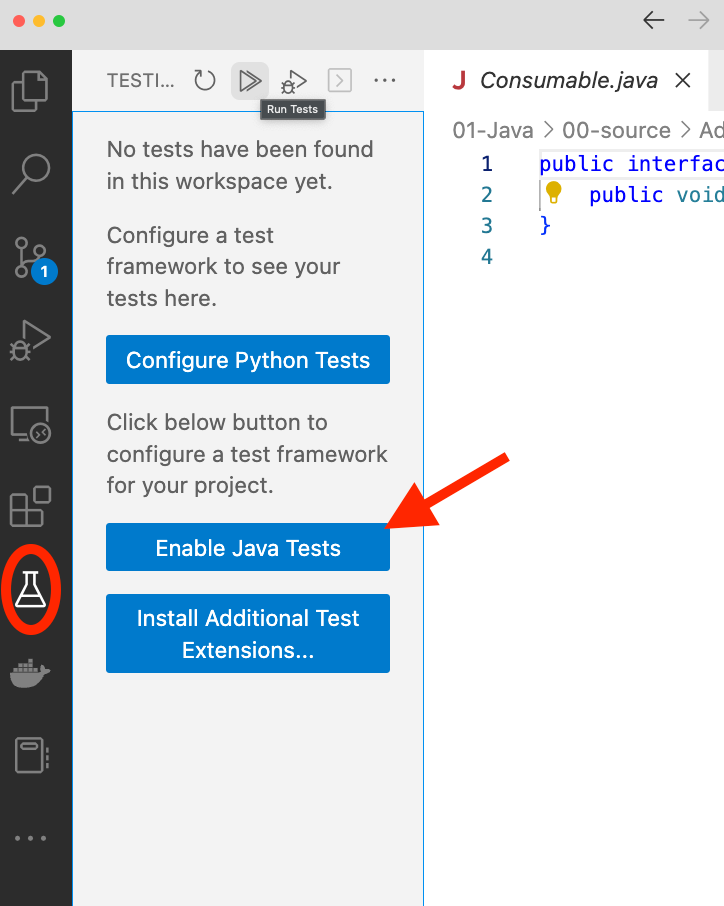
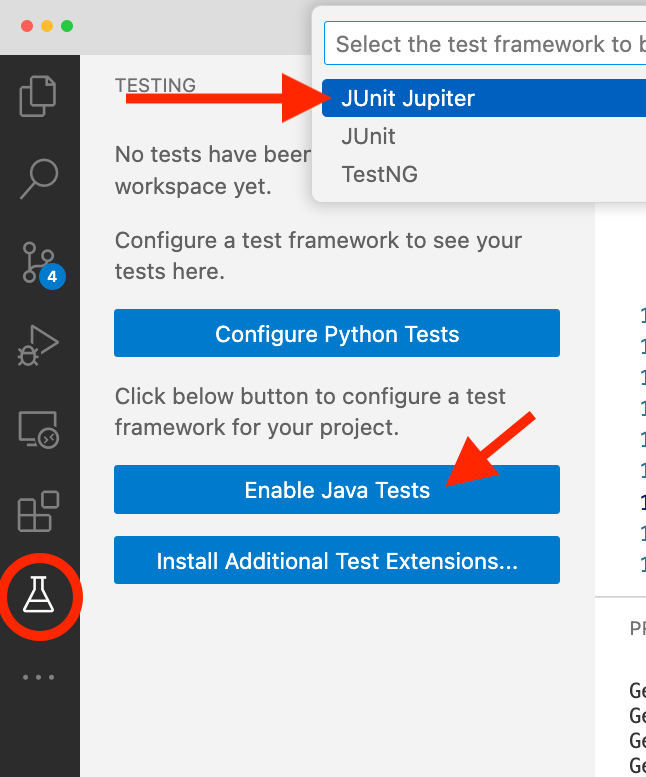
Update Testing Instructions

diff --git a/project-01.md b/project-01.md
@@ -42,9 +42,9 @@ The best way to write unit tests for Java is to use JUnit.
 
 VS Code makes it easy to get setup with JUnit and to run JUnit Tests. The VS Code Extension "Extension Pack for Java" bundles JUnit Testing into VS Code for you. 
 
-To start writing and running JUnit tests, you need to enable java tests. First, in VS Code, open any java source file to force VS Code to "open java projects" and enable java extensions. Then you will have a test beaker Testing option in your left menu. From there, click on "Enable Java Tests"
+To start writing and running JUnit tests, you need to enable java tests. First, in VS Code, open any java source file to force VS Code to "open java projects" and enable java extensions. Then you will have a test beaker Testing option in your left menu. From there, click on "Enable Java Tests" and select "JUnit Jupiter".
 
-<img src = "figures/vs-code-testing.png" width = "35%">
+<img src = "figures/vs-code-testing.png" width = "100%">
 
 VS Code will download the required library and you're good to go.
 
